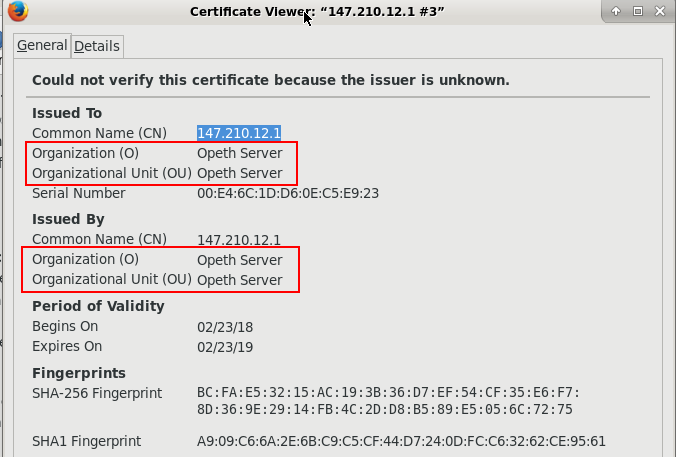
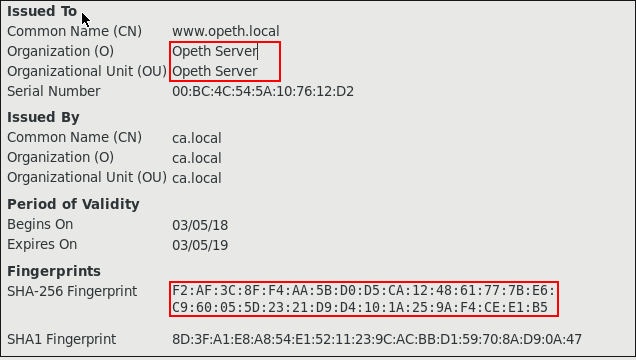
https-interception: update screens + README

Changed region(s): [[0.0, 0.0, 1.0, 1.0]]

diff --git a/https-interception/README.md b/https-interception/README.md
@@ -120,22 +120,20 @@ Le code du proxy est dans le fichier [https-interception](https://github.com/t00
 
 ## Etape 3 : pendant l'attaque
 
-Lorsque l'attaque est en cours, le certificat a changé, et firefox nous donne une alerte :
+Lorsque l'attaque est en cours, le certificat présenté au client n'est plus celui d'opeth, mais celui du Proxy, signé par l'autorité de certification. À noter qu'ici si l'autorité de certification du proxy n'avait pas été dans présent dans le navigateur, celui-ci aurait émis une alerte.
 
-![screen5](../medias/https-interception/screen5.png?raw=true)
-
-Ici on voit que le certificat présenté est celui du proxy (immortal), et non plus celui du serveur :
+Ci-dessous on voit que le certificat présenté est celui du proxy (immortal), et non plus celui du serveur. On voit bien que les empreintes SHA256 sont différentes.
 
 ![screen6](../medias/https-interception/screen6.png?raw=true)
 
-Si on accepte le certificat, et que nous essayons de nous enregistrer :
+Si le certificat est accepté par le client et que nous essayons de nous enregistrer :
 
-![screen7](../medias/https-interception/screen7.png?raw=true)
+![screen7](../medias/https-interception/screen1.png?raw=true)
 
-Nous arrivons bien sur la page secure.php, et notre connection est bien effectuée en HTTPS.
+Nous arrivons bien sur la page secure.php, et notre connection est bien effectuée en HTTPS. Le client n'a constaté aucuns changement au niveau de sa navigation.
 
-![screen8](../medias/https-interception/screen8.png?raw=true)
+![screen8](../medias/https-interception/screen3.png?raw=true)
 
-Par contre, la machine immortal a jouée le rôle d'un proxy et a été capable de récupérer la communication en claire. Ici on voit que le nom d'utilisateur, le mot de passe ainsi que le cookie de session ont pût être capturés :
+Par contre, la machine immortal a jouée le rôle d'un proxy et a été capable de récupérer la communication en clair. Ici on voit que le nom d'utilisateur, le mot de passe ainsi que le cookie de session ont pût être capturés :
 
 ![screen9](../medias/https-interception/screen9.png?raw=true)
